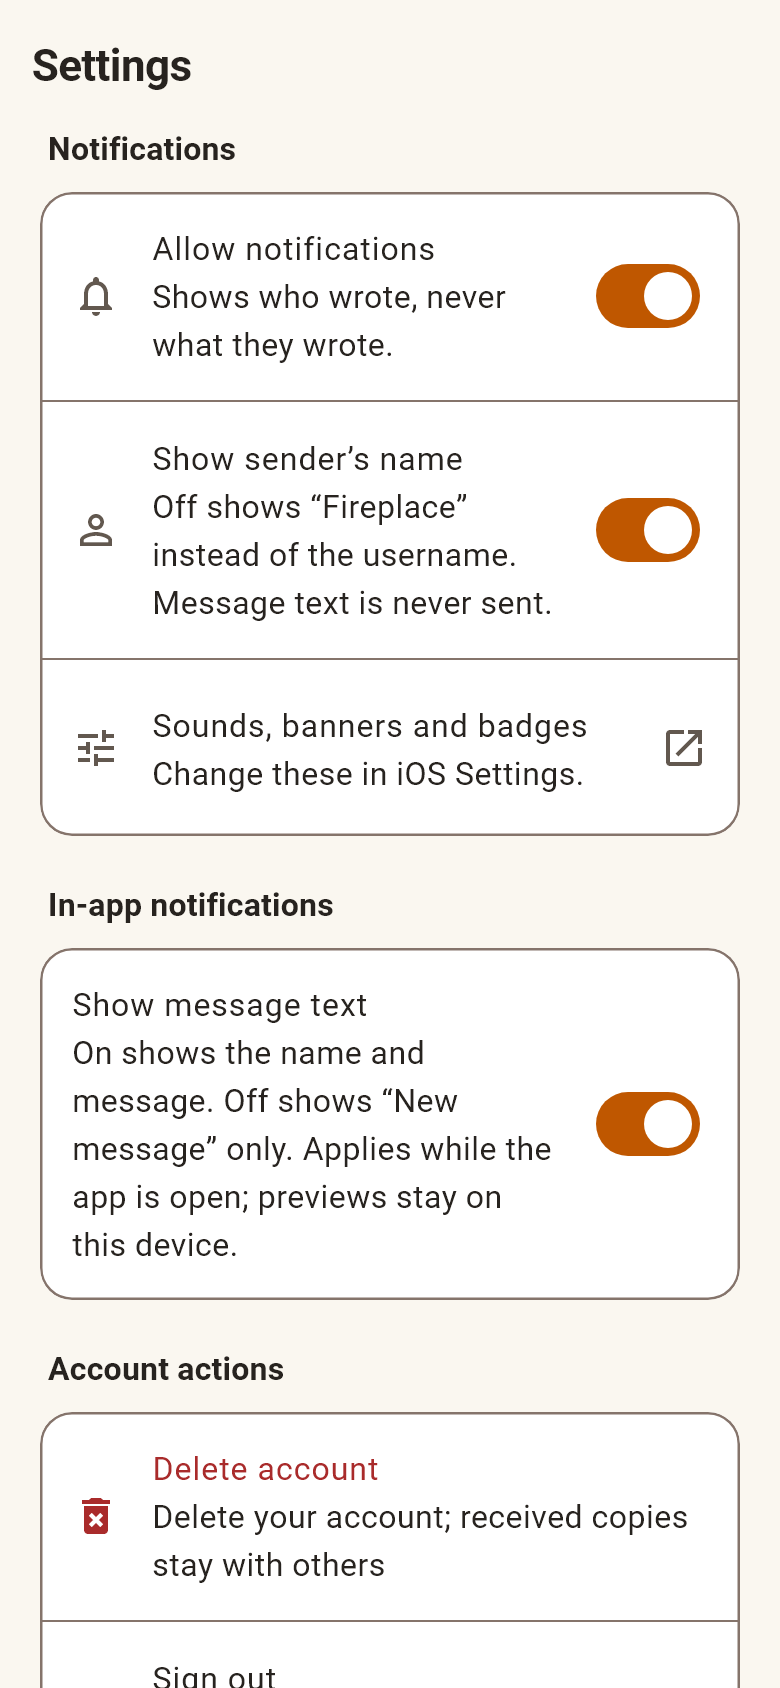
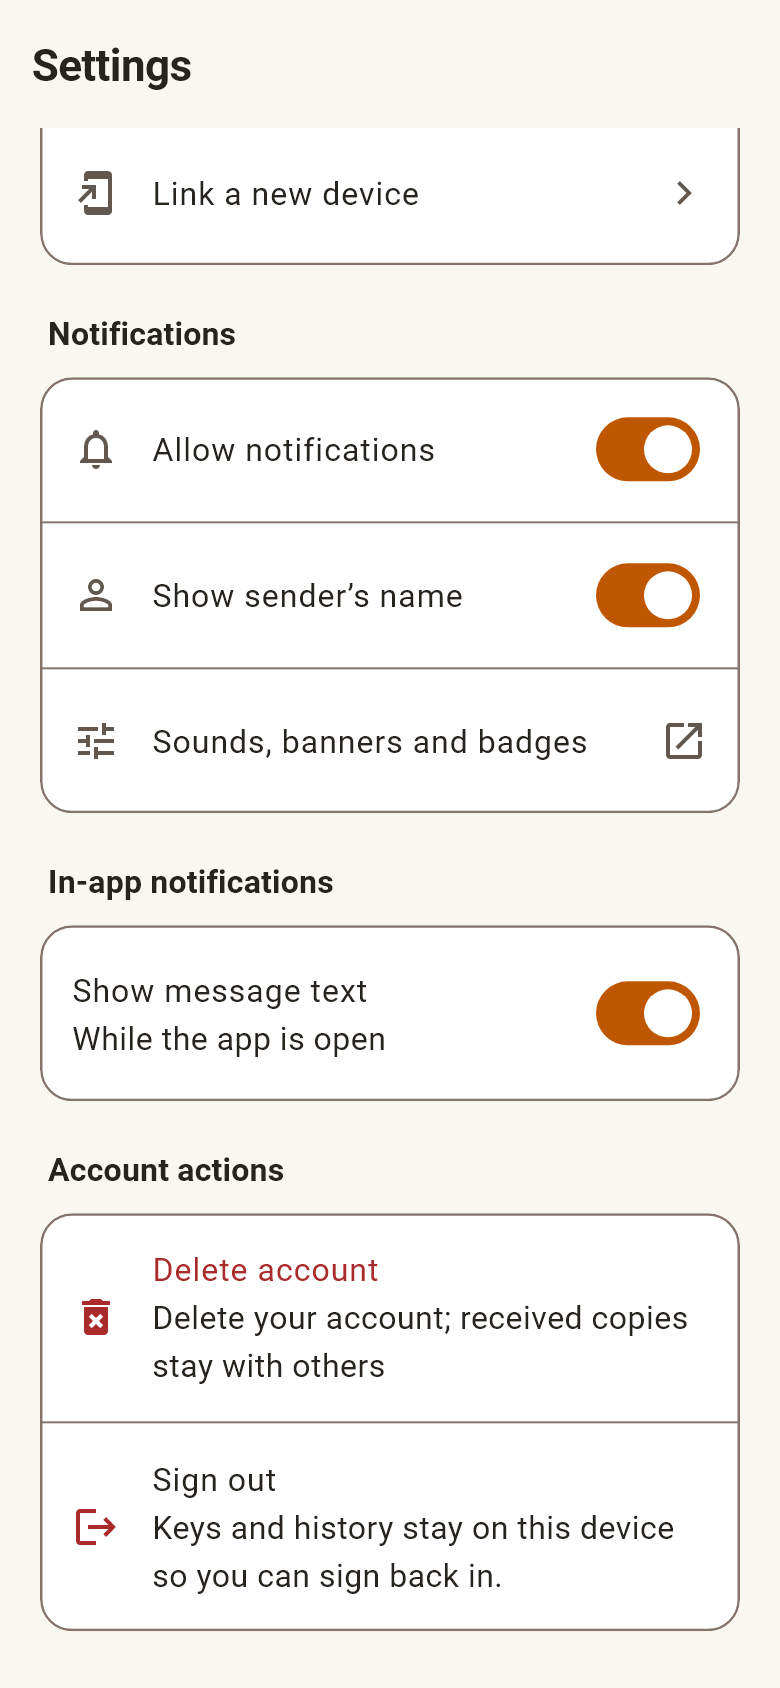
Cut the notification settings down to one line per row
The rows explained themselves at length. Each row is now just its label;
a short line appears only when there is something to act on (notifications
off in the system settings, or an error). The in-app preview row's
description is shortened to 'While the app is open'.

AI assistance: Claude Code wrote this change.

diff --git a/lib/src/view/settings/push_settings.dart b/lib/src/view/settings/push_settings.dart
@@ -63,7 +63,7 @@ class _PushSettingsState extends ConsumerState<PushSettingsSection>
       });
     } catch (_) {
       if (mounted) {
-        setState(() => _error = 'Could not read notification settings.');
+        setState(() => _error = 'Could not load. Try again.');
       }
     }
   }
@@ -79,7 +79,7 @@ class _PushSettingsState extends ConsumerState<PushSettingsSection>
       await _load();
     } catch (_) {
       if (mounted) {
-        setState(() => _error = 'Could not change notifications. Try again.');
+        setState(() => _error = 'Could not change. Try again.');
       }
     } finally {
       if (mounted) setState(() => _busy = false);
@@ -96,18 +96,10 @@ class _PushSettingsState extends ConsumerState<PushSettingsSection>
     }
   });
 
-  String get _subtitle {
-    if (_error != null) return _error!;
-    return switch (_status) {
-      null => 'Loading…',
-      PushStatus.on =>
-        _showName
-            ? 'Shows who wrote, never what they wrote.'
-            : 'Shows “New Message” only.',
-      PushStatus.off => 'No alerts while Fireplace is closed.',
-      PushStatus.blockedBySystem => 'Turned off in $_system. Tap to open them.',
-    };
-  }
+  // Only says something when the person may need to act.
+  String? get _subtitle =>
+      _error ??
+      (_status == PushStatus.blockedBySystem ? 'Off in $_system' : null);
 
   @override
   Widget build(BuildContext context) {
@@ -119,7 +111,7 @@ class _PushSettingsState extends ConsumerState<PushSettingsSection>
           key: const Key('pushSwitch'),
           secondary: const Icon(Icons.notifications_outlined),
           title: const Text('Allow notifications'),
-          subtitle: Text(_subtitle),
+          subtitle: _subtitle == null ? null : Text(_subtitle!),
           value: on,
           onChanged: _busy || _status == null ? null : _toggle,
         ),
@@ -127,9 +119,6 @@ class _PushSettingsState extends ConsumerState<PushSettingsSection>
           key: const Key('pushShowName'),
           secondary: const Icon(Icons.person_outline),
           title: const Text('Show sender’s name'),
-          subtitle: const Text(
-            'Off shows “Fireplace” instead of the username. Message text is never sent.',
-          ),
           value: _showName,
           onChanged: on && !_busy
               ? (value) => _change(() => widget.service.setShowName(value))
@@ -139,7 +128,6 @@ class _PushSettingsState extends ConsumerState<PushSettingsSection>
           key: const Key('pushSystemSettings'),
           leading: const Icon(Icons.tune),
           title: const Text('Sounds, banners and badges'),
-          subtitle: Text('Change these in $_system.'),
           trailing: const Icon(Icons.open_in_new),
           onTap: () => ref.read(systemNotificationsProvider).openSettings(),
         ),

diff --git a/test/view/settings/push_settings_test.dart b/test/view/settings/push_settings_test.dart
@@ -99,15 +99,12 @@ void main() {
     await tester.tap(find.byKey(const Key('pushSwitch')));
     await settle(tester);
     expect(switchValue(tester, 'pushSwitch'), isTrue);
-    expect(
-      find.text('Shows who wrote, never what they wrote.'),
-      findsOneWidget,
-    );
+    expect(find.text('Off in iOS Settings'), findsNothing);
     expect(enabled(tester, 'pushShowName'), isTrue);
 
     await tester.tap(find.byKey(const Key('pushShowName')));
     await settle(tester);
-    expect(find.text('Shows “New Message” only.'), findsOneWidget);
+    expect(switchValue(tester, 'pushShowName'), isFalse);
     expect(
       (await db.doc('users/alice/pushTokens/alice-device-1').get())
           .data()?['showName'],
@@ -117,16 +114,13 @@ void main() {
     await tester.tap(find.byKey(const Key('pushSwitch')));
     await settle(tester);
     expect(switchValue(tester, 'pushSwitch'), isFalse);
-    expect(find.text('No alerts while Fireplace is closed.'), findsOneWidget);
+    expect(enabled(tester, 'pushShowName'), isFalse);
   });
 
   testWidgets('blocked in system settings opens them', (tester) async {
     messaging.permission = PushPermission.denied;
     await pump(tester);
-    expect(
-      find.text('Turned off in iOS Settings. Tap to open them.'),
-      findsOneWidget,
-    );
+    expect(find.text('Off in iOS Settings'), findsOneWidget);
     await tester.tap(find.byKey(const Key('pushSwitch')));
     await settle(tester);
     expect(system.opened, 1);
@@ -150,6 +144,5 @@ void main() {
     await tester.tap(find.byKey(const Key('pushSystemSettings')));
     await settle(tester);
     expect(system.opened, 1);
-    expect(find.text('Change these in iOS Settings.'), findsOneWidget);
   });
 }

diff --git a/lib/src/view/settings/settings_screen.dart b/lib/src/view/settings/settings_screen.dart
@@ -276,9 +276,7 @@ class _SettingsScreenState extends ConsumerState<SettingsScreen> {
                     SwitchListTile(
                       key: const Key('notificationPreviews'),
                       title: const Text('Show message text'),
-                      subtitle: const Text(
-                        'On shows the name and message. Off shows “New message” only. Applies while the app is open; previews stay on this device.',
-                      ),
+                      subtitle: const Text('While the app is open'),
                       value: ref.watch(chatActivityProvider).previewText,
                       onChanged: _busy || !activity.preferencesAvailable
                           ? null
